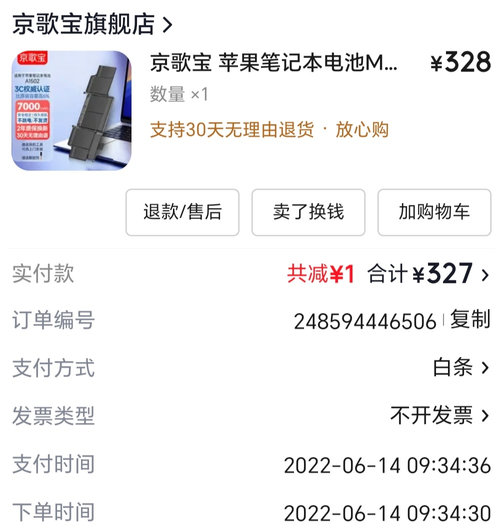
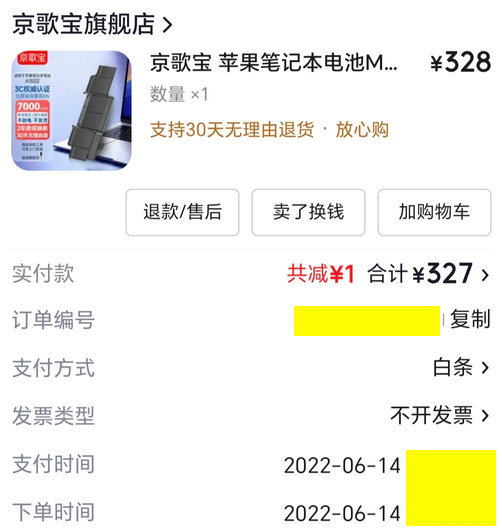
M wenxin/006

Changed region(s): [[0.8068, 0.8469, 1.0, 0.9981], [0.5677, 0.5747, 0.8964, 0.6352]]

diff --git a/weixin/006_farewell_macbook.md b/weixin/006_farewell_macbook.md
@@ -14,12 +14,16 @@ Macbook 的颜值还是不错的。
 
 ![jd_macbook_battery.jpg](/_images/weixin/jd_macbook_battery.jpg)
 
+用卖家送的星形螺丝刀打开后盖，用除胶剂取掉旧电池（最难搞的一步，需要温柔的暴力），再换上新电池，基本就满血复活了。
+
 ![macbook_fix.jpg](/_images/weixin/macbook_fix.jpg)
 
 被苹果抛弃以后，虽然有些新的软件装不了，但日常使用没问题。差不多 10 年过去了，性能并没有明显地下降，仍然可以再战。
 
+但终于还是换成了新的 Macbook.
+
 ![macbook_new.jpg](/_images/weixin/macbook_new.jpg)
 
-但终于还是换成了新的 Macbook, 版本被封印的软件又可以更新。只不过由于 CPU 架构从 X86_64 变成了 ARM64, 有些软件又不支持了，好在有 Rosseta 还可以顶一下，但据说将来的 macOS 版本将不再支持 Rosseta...
+版本被封印的软件又可以更新。只不过由于 CPU 架构从 X86_64 变成了 ARM64, 有些软件又不支持了，好在有 Rosseta 还可以顶一下，但据说将来的 macOS 版本将不再支持 Rosseta...
 
 该来的总是要来的，该放弃的就让它去吧。